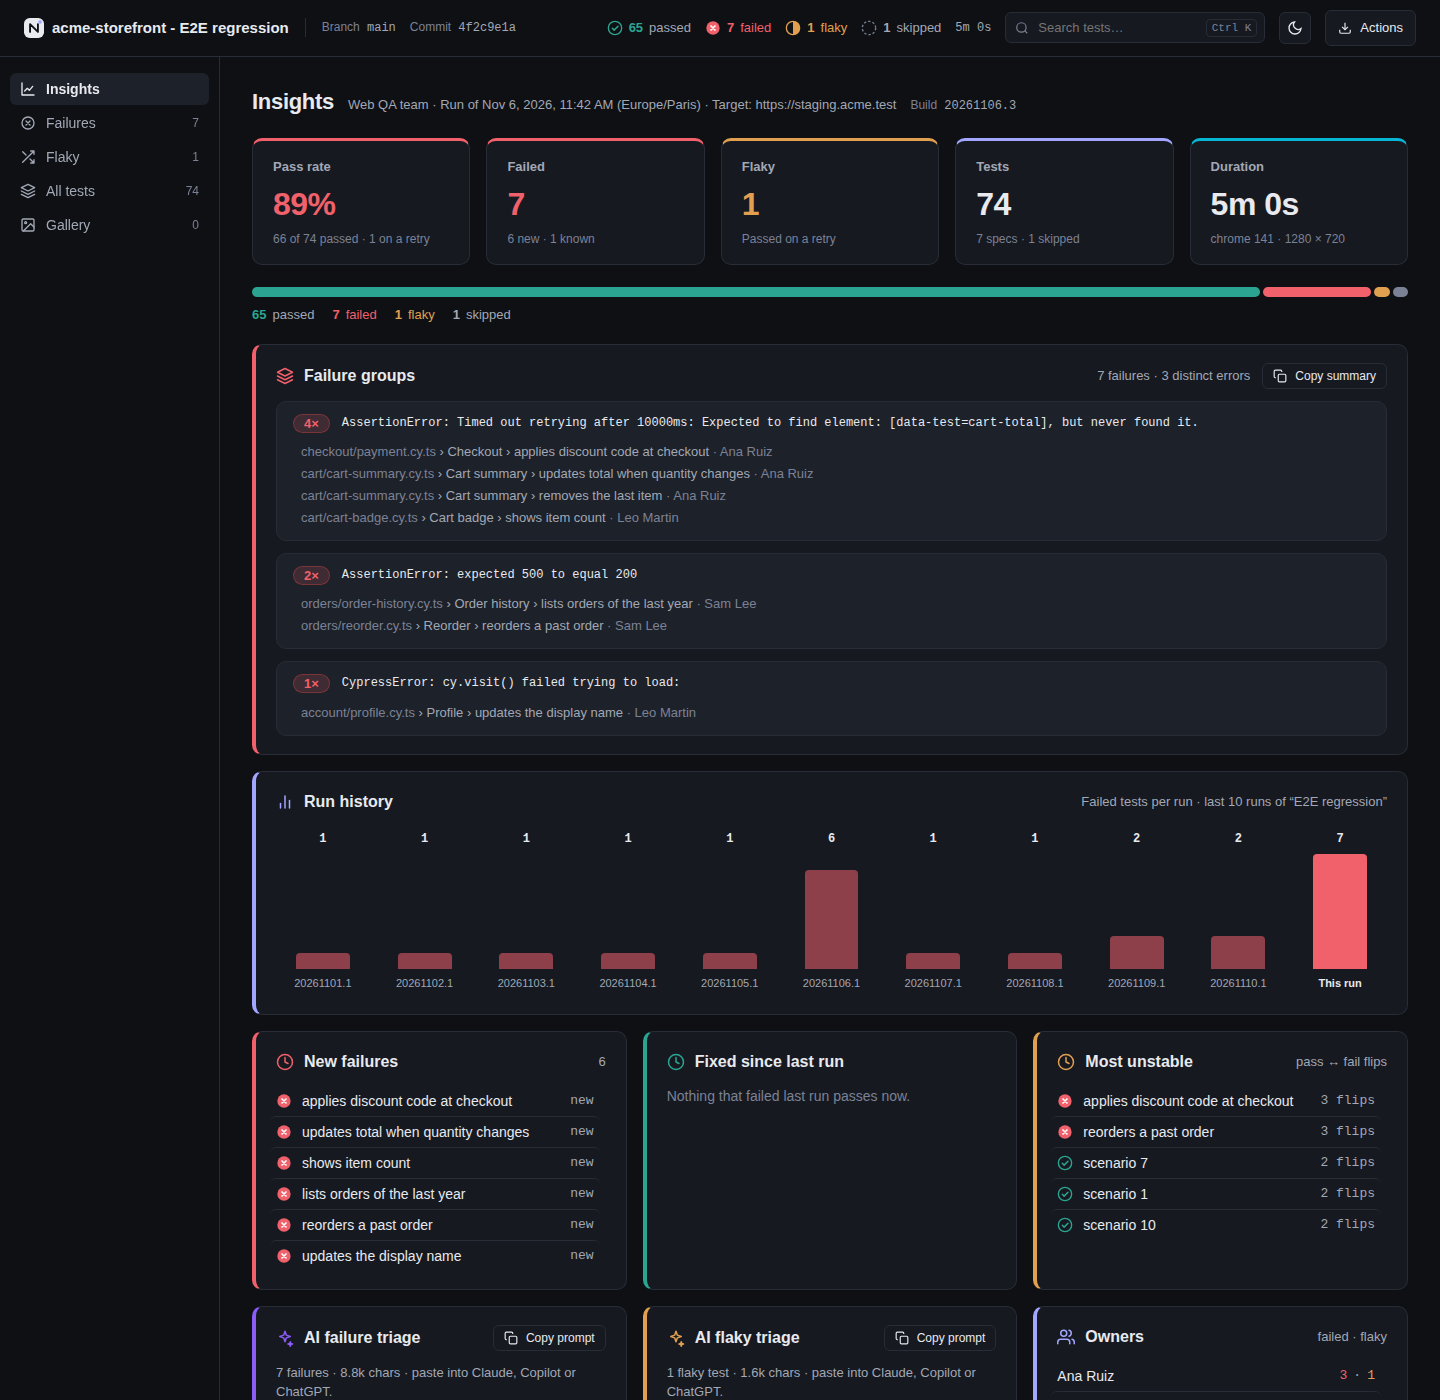
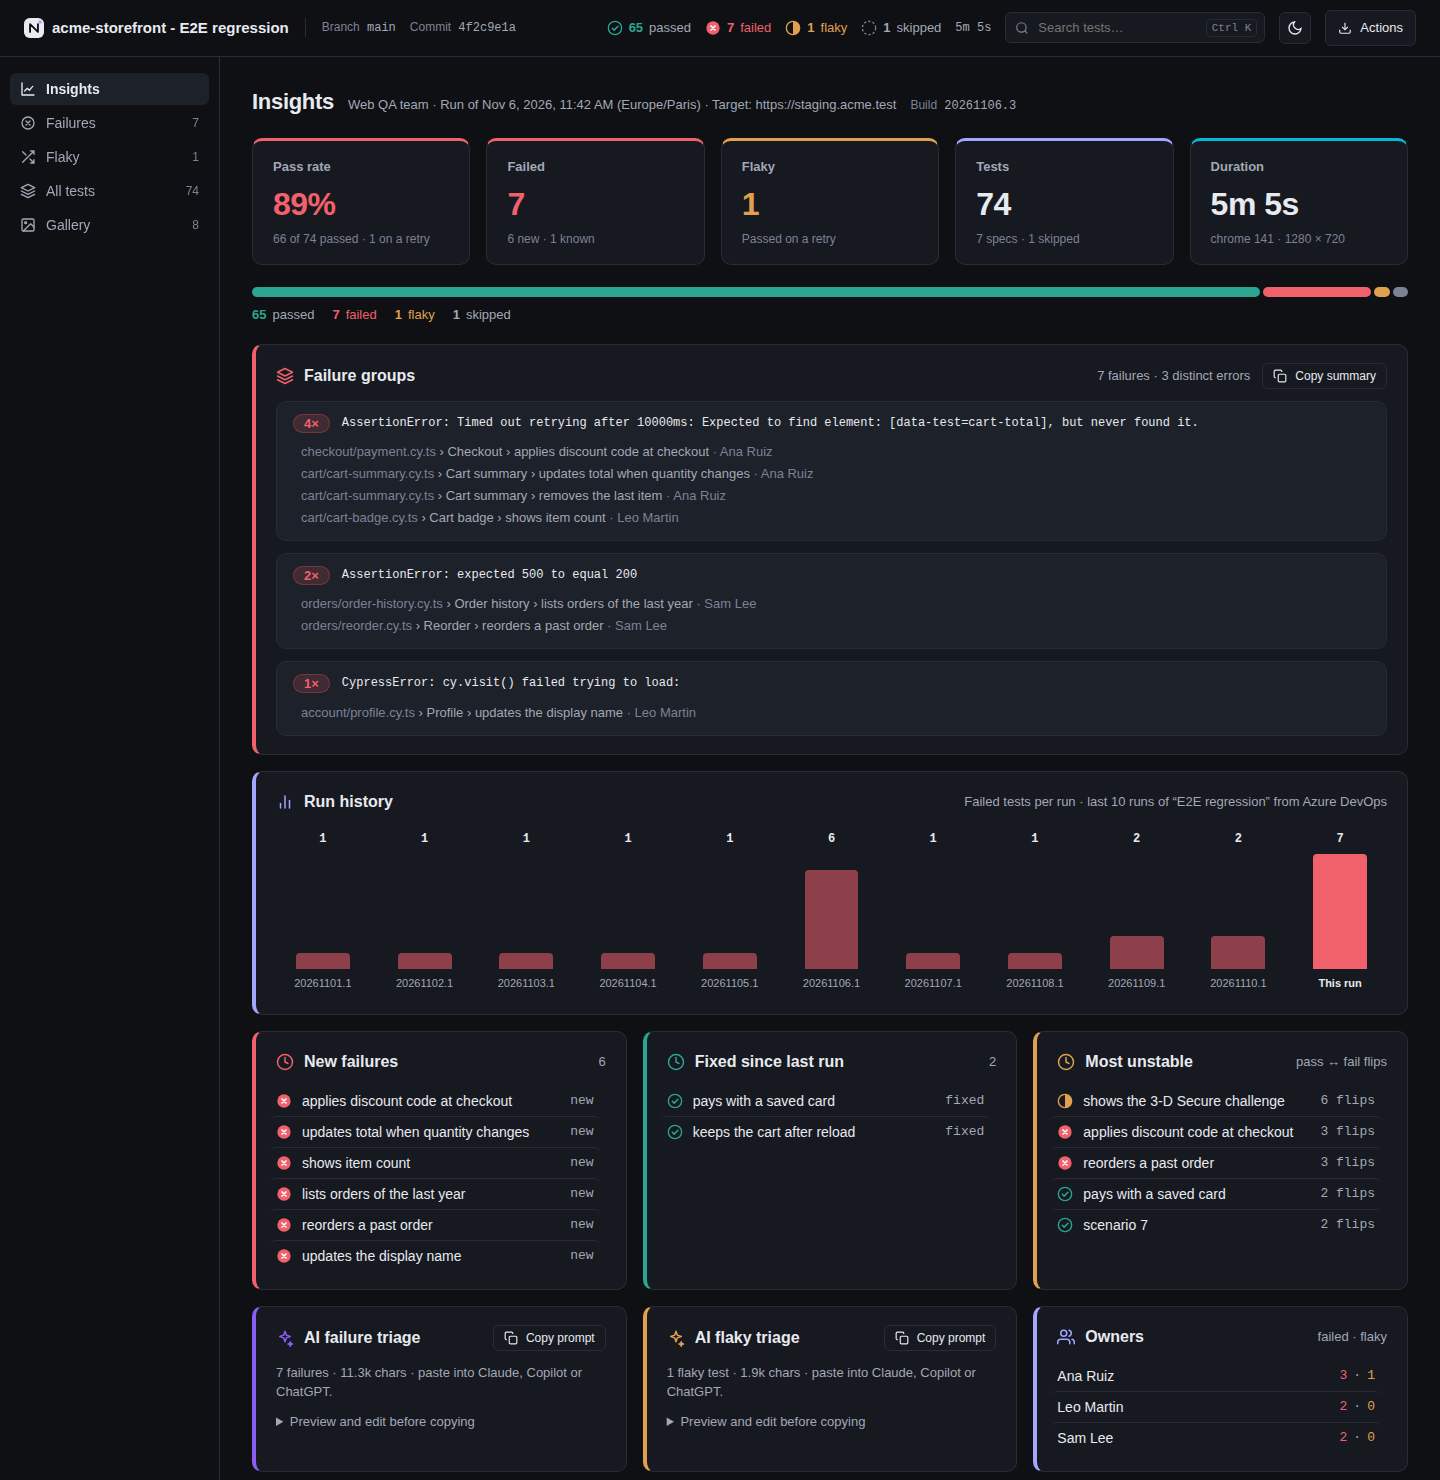
docs: add walkthrough GIF and dark-mode screenshots to README

diff --git a/README.md b/README.md
@@ -8,10 +8,13 @@ One HTML report for Cypress runs: failures grouped by cause, history from your C
 ![cypress 15 | 16](https://img.shields.io/badge/cypress-15%20%7C%2016-informational)
 ![node 20+](https://img.shields.io/badge/node-20%2B-informational)
 
-<picture>
-  <source media="(prefers-color-scheme: dark)" srcset="docs/assets/report-dark.png">
-  <img alt="The report overview: pass rate, failure groups and run history" src="docs/assets/report-light.png">
-</picture>
+![The report overview: pass rate, failure groups, run history, new and fixed failures, and AI triage](https://raw.githubusercontent.com/mcello23/cypress-neo-reporter/main/docs/assets/report-dark.png)
+
+## Walkthrough
+
+Switch themes, drill from a failure group straight into phased steps and network diagnostics, copy an AI triage prompt, zoom failure screenshots in the gallery and filter with `tag:smoke`:
+
+![Interactive walkthrough of Cypress Neo Reporter: theme toggle, failure groups, phased steps, AI triage prompt copy, screenshot gallery lightbox and tag search](https://raw.githubusercontent.com/mcello23/cypress-neo-reporter/main/docs/assets/demo-walkthrough.gif)
 
 ## Features
 
@@ -27,6 +30,32 @@ One HTML report for Cypress runs: failures grouped by cause, history from your C
 - **Your time zone.** Every time in the report uses the zone you set with `timeZone`, not the CI machine's.
 - **Light and dark.** Follows the reader's system by default, with a switch in the header.
 - **One file.** No server and no external assets. Open it offline, attach it to a ticket, keep it as a build artifact. Parallel runs merge into one.
+
+## Screenshots
+
+### Failure evidence & AI triage
+
+Every failed or flaky test keeps its run-history strip, business objective, phased `cy.step` log (`VISIT`, `FIND`, `STEP`, `CHECK`), stack trace, failed requests with `[redacted]` secrets, console errors, per-test AI triage prompt, failure screenshot and embedded video clip.
+
+![Expanded failed test showing run history dots, business objective, phased execution steps, failed network requests with redacted tokens, AI triage prompt, screenshot and embedded video player](https://raw.githubusercontent.com/mcello23/cypress-neo-reporter/main/docs/assets/evidence-dark.png)
+
+### AI triage, owners, regressions & tags
+
+Copy a run-wide failure or flaky triage prompt in one click, see failures by spec owner, catch tests running slower than their historical baseline, break down results by `@tag` and inspect spec durations.
+
+![Insights panels showing AI failure and flaky triage prompts, spec owners, slowest tests, slower-than-usual duration regressions, tag counts and spec duration bars](https://raw.githubusercontent.com/mcello23/cypress-neo-reporter/main/docs/assets/insights-details-dark.png)
+
+### Screenshots & recordings gallery
+
+Browse every screenshot and video clip from failed and flaky tests in one view, with a click-to-zoom lightbox and direct jumps back to each test.
+
+![Gallery view listing failure and flaky screenshots alongside embedded test recordings](https://raw.githubusercontent.com/mcello23/cypress-neo-reporter/main/docs/assets/gallery-dark.png)
+
+### CI summary, chat alerts & quality gate
+
+Along with the HTML report, every run can publish a Markdown summary to GitHub Actions or Azure DevOps, send a digest to Slack or Microsoft Teams (`neo-reporter notify`), and enforce a pipeline quality gate (`neo-reporter gate`).
+
+![Mockup of GitHub Actions and Azure DevOps Markdown summary, Slack notification card, and neo-reporter gate CLI output](https://raw.githubusercontent.com/mcello23/cypress-neo-reporter/main/docs/assets/ci-notifications-dark.png)
 
 ## Requirements
 
